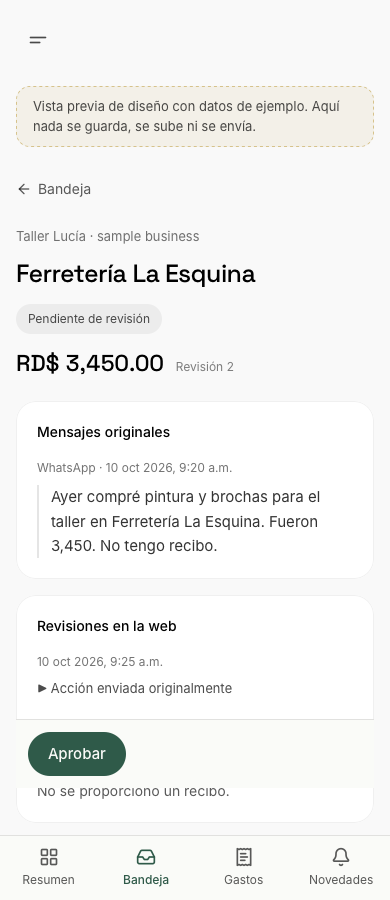
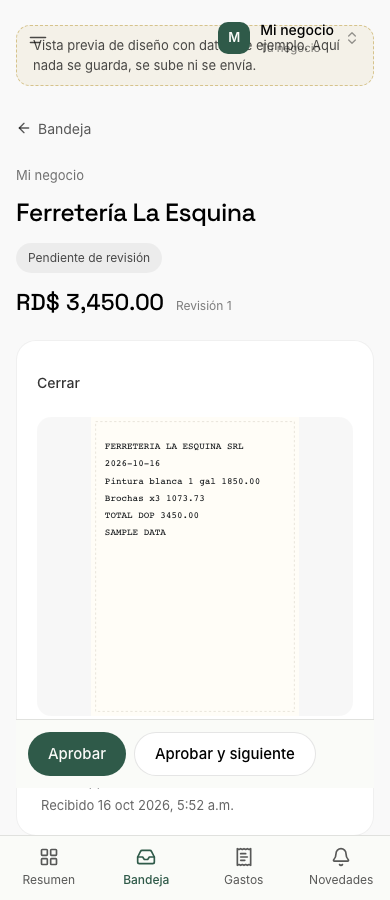
test(business): verify phone receipt image and field clearance

diff --git a/web/e2e/business-navigation-shortcuts.spec.ts b/web/e2e/business-navigation-shortcuts.spec.ts
@@ -67,12 +67,20 @@ test("desktop navigation, searchable platform sheet, strict input and overlay bl
 });
 test("phone tabs have 44px targets and the approval footer stays above them", async ({ page }) => {
   await setup(page, 390);
-  await page.goto(`/dev/business-preview?chat=off&draft=${dossierFixtureIds.ready}`);
+  await page.goto("/dev/business-preview?chat=off&receipt=rcpt-ferreteria");
+  await page.getByLabel("Pagado desde").selectOption({ index: 1 });
+  await page.getByRole("button", { name: "Guardar detalles de revisión", exact: true }).click();
+  await expect(page.getByRole("button", { name: "Aprobar y siguiente", exact: true })).toBeEnabled();
+  const original = page.getByTestId("receipt-original-source");
+  await original.getByRole("button", { name: "Recibo original", exact: true }).click();
+  await expect(original.getByRole("img", { name: "Recibo original", exact: true })).toBeVisible();
+  await expect(page.getByTestId("receipt-current-facts")).toBeVisible();
+  await expect(page.getByText("Mi negocio", { exact: true }).first()).toBeVisible();
   const tabs = page.getByTestId("business-bottom-tabs");
   await expect(tabs).toBeVisible();
   const footer = page.getByTestId("receipt-review-footer");
   await expect(footer).toBeVisible();
-  await footer.scrollIntoViewIfNeeded();
+  await original.scrollIntoViewIfNeeded();
   const tabBox = (await tabs.boundingBox())!;
   const footerBox = (await footer.boundingBox())!;
   expect(footerBox.y + footerBox.height).toBeLessThanOrEqual(tabBox.y + 1);
@@ -82,6 +90,10 @@ test("phone tabs have 44px targets and the approval footer stays above them", as
     expect(box.height).toBeGreaterThanOrEqual(44);
   }
   await screenshot(page, "after-review-390");
+  await page.getByTestId("receipt-current-facts").scrollIntoViewIfNeeded();
+  const fieldsFooterBox = (await footer.boundingBox())!;
+  expect(fieldsFooterBox.y + fieldsFooterBox.height).toBeLessThanOrEqual(tabBox.y + 1);
+  await screenshot(page, "after-review-fields-390");
   await chord(page, "Slash");
   await expect(page.getByRole("dialog")).toHaveCount(0);
   await tabs.getByRole("button", { name: "Resumen", exact: true }).click();

diff --git a/docs/reports/evidence/lane09-item6/README.md b/docs/reports/evidence/lane09-item6/README.md
@@ -59,6 +59,7 @@ The inherited approve-next test fixture now honors `receiptPage('all')` and retu
 | --- | --- | --- |
 | Focused Bun tests | 58 pass, 0 fail, 8 files, 390 expectations | [unit](navigation-unit.txt) |
 | Business browser matrix | 18 pass, 0 fail: 6 cases in each engine | [matrix](navigation-matrix.txt) |
+| Corrected actual receipt image/fields phone proof | 3 pass across all engines | [phone correction](navigation-phone-final.txt) |
 | Existing Argus keyboard-layers and keyboard-passes | 21 pass, Chromium production, Business flag off | [Argus](navigation-argus-keyboard.txt) |
 | Existing clutter/locale cases plus production title focus | 11 pass, Chromium production | [production](navigation-production-final.txt) |
 | Old focus Strict Mode reproduction | 1 normal pass, 1 Strict Mode fail, expected red | [red](navigation-focus-strict-before.txt) |
@@ -101,11 +102,11 @@ The final command is the riskiest production focus probe: **1 passed**. The reta
 
 DONE: used one typed shortcut table and a typed receipt callback registry. This applies pstack's Model the Domain principle. A second document-level listener or DOM button-click dispatch would duplicate ownership or guess capability state, so both were rejected. Optional shared-shell fields preserve existing callers. DONE: moved title-focus cancellation to the navigation methods after reproducing development failure and production success. DONE: moved only the existing note action into its section; retained Access at the footer.
 
-Throughput checkpoint: the initial gate was source/authority, exclusive worktree and method ownership. Browser, build and DOM checks used separate outputs. Shared shell changes stayed with this sole writer. One writer is the smallest safe decomposition because navigation, the registry and receipt callback lifecycle are coupled. Root remains the independent reviewer and reconciliation owner. No extra writers were spawned.
+Throughput checkpoint: the initial gate was source/authority, exclusive worktree and method ownership. Browser, build and DOM checks used separate outputs. Shared shell changes stayed with this sole writer. One writer is the smallest safe decomposition because navigation, the registry and receipt callback lifecycle are coupled. Root dispatches a fresh independent Eval and owns reconciliation. No extra writers were spawned.
 
-Read `.agent/designs/argus/DESIGN.md`, the applicable Apple platform guide, [HIG tab bars](https://developer.apple.com/design/human-interface-guidelines/tab-bars), [HIG layout](https://developer.apple.com/design/human-interface-guidelines/layout), and [WWDC22 Explore navigation design for iOS](https://developer.apple.com/videos/play/wwdc2022/10001/). Applied four stable labeled sections, targets at least 44px, and bottom-safe-area clearance.
+Read `.agent/designs/argus/DESIGN.md`, `.agent/skills/apple-hig-expert/references/platform-specifics.md`, [HIG tab bars](https://developer.apple.com/design/human-interface-guidelines/tab-bars), [HIG layout](https://developer.apple.com/design/human-interface-guidelines/layout), and [WWDC22 Explore navigation design for iOS](https://developer.apple.com/videos/play/wwdc2022/10001/). Applied four stable labeled sections, targets at least 44px, and bottom-safe-area clearance. On 2026-10-16, also read the current [WWDC26 design guide](https://developer.apple.com/wwdc26/guides/design/) and [WWDC26 search session transcript](https://developer.apple.com/videos/play/wwdc2026/292/). These inform recognizable search controls and clear search scope; the older navigation session is supplemental, not a substitute for the current guide.
 
-Opened all 11 Mobbin references in the supplied source in the existing browser session, without login or purchase. Mercury Transactions, Mercury Home and Shopify detail informed stable labeled navigation, top search and content hierarchy. Mercury empty state, Square, Sprig and hilos were inspected without changing item3/item5 loading behavior. Waymo and Shop supported retaining tabs during content loading; their decorative floating shapes were not copied. Toggl and Grok anti-pattern references were inspected without adding loading work.
+Opened all 11 supplied visual references in the existing browser session without login or purchase: [1: transaction rows](https://mobbin.com/screens/f77b24a7-e68e-4fc1-b5ac-91856a92f12b), [2: detail hierarchy](https://mobbin.com/screens/512520ce-bc7e-4819-9cc4-16049b6e6572), [3: dashboard](https://mobbin.com/screens/d8564614-5b4c-4cdc-8088-0891fc9260df), [4: empty state](https://mobbin.com/screens/dc52d8c6-76a8-49f7-a3ce-66c4b7b35500), [5: table skeleton](https://mobbin.com/screens/09371ef3-f0d0-4fc9-8ab1-607ab3d0e4ab), [6: page skeleton](https://mobbin.com/screens/bc5f336e-30e3-46f4-b461-62fa59e80f04), [7: sidebar skeleton](https://mobbin.com/screens/cca735a9-0a0c-4e0e-a541-2e7d413e730e), [8: persistent tabs](https://mobbin.com/screens/209d586d-c74b-476b-883f-50b5d26c6a78), [9: tabs during loading](https://mobbin.com/screens/d3158271-a0e5-4672-bea0-44ef4aebcb1c), [10: lone-spinner anti-pattern](https://mobbin.com/screens/ee29de9a-5441-4a89-829c-007e134b74e1), [11: decorative-loader anti-pattern](https://mobbin.com/screens/a2269caf-8ccc-4cff-b151-3de6d9e19470). Applied stable labels, top search and hierarchy. Retained tabs during loading without copying decorative floating shapes. No item3/item5 loading changes. 
 
 ## Screenshots
 
@@ -118,8 +119,10 @@ Matched synthetic /biz captures use the same clutter fixture before and after:
 | Overview 390px | [before](before-overview-390.png) | [after](after-overview-390.png) |
 | Bandeja 390px | [before](before-inbox-390.png) | [after](after-inbox-390.png) |
 
-Additional engine-named captures show the [shortcut sheet](chromium-after-shortcuts-1280.png), [collapsed focus label](chromium-after-collapsed-focus-1280.png), and [phone approval clearance](chromium-after-review-390.png). Screenshots contain invented sample records only.
+Additional engine-named captures show the [shortcut sheet](chromium-after-shortcuts-1280.png), [collapsed focus label](chromium-after-collapsed-focus-1280.png), and [phone image/approval clearance](chromium-after-review-390.png) and [fields/approval clearance](chromium-after-review-fields-390.png). Screenshots contain invented sample records only.
 
 ## Cleanup
 
 Removed only lane-owned build and test outputs: 410237015 logical bytes. Retained dependencies, ignored test configs, this worktree and all evidence. Port 3196 had no listener. APFS clone allocation prevents equating logical bytes with disk space recovered. [Measured cleanup and df](cleanup.txt).
+
+Phone evidence correction: the original capture used a message-only dossier whose inherited synthetic name contained English text. The phone test now opens the existing receipt fixture, saves its review fields, expands its original image, and checks the actual approval footer against the tabs. Its existing record name is Mi negocio; no locale or product copy changed.
